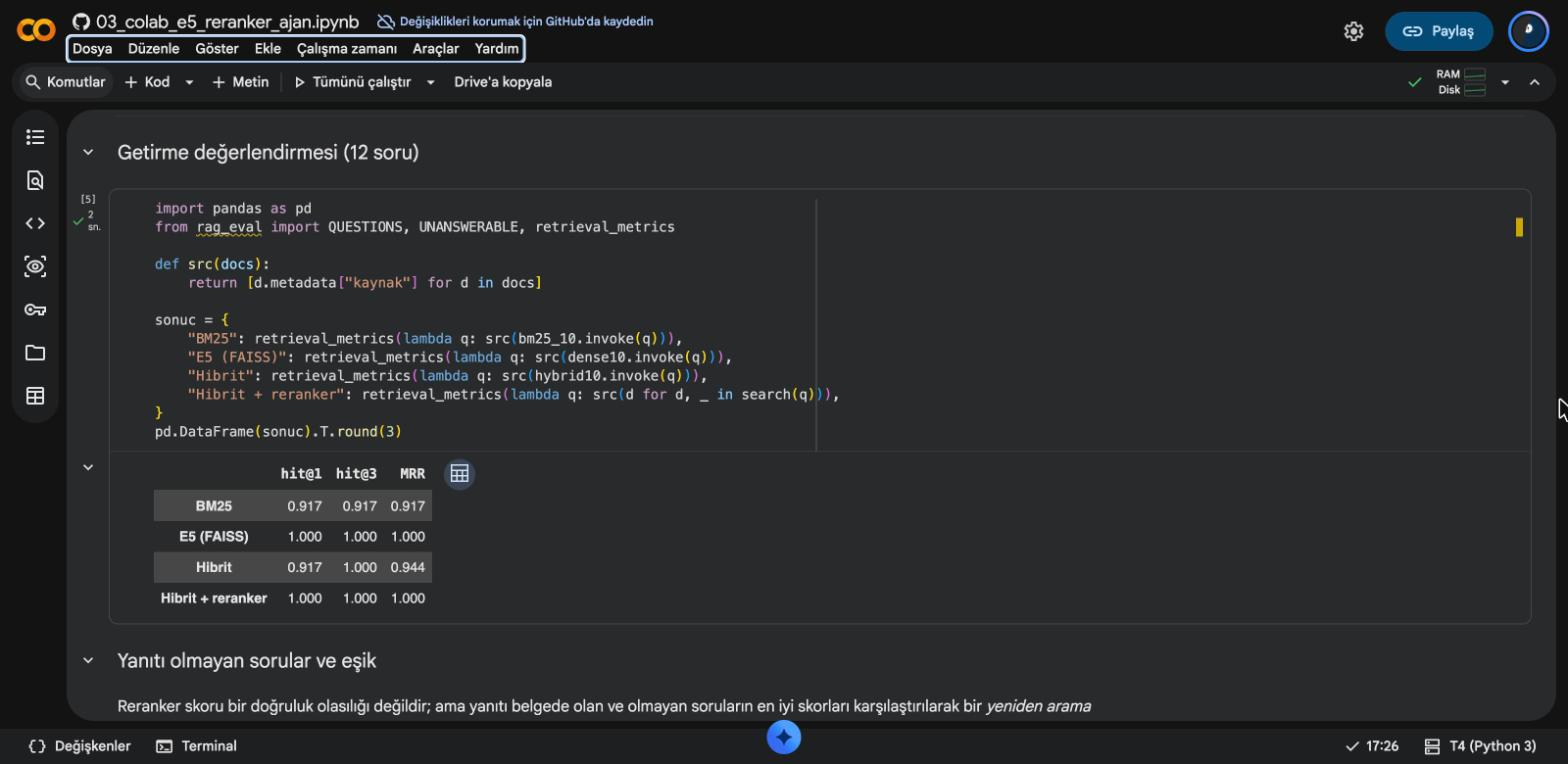
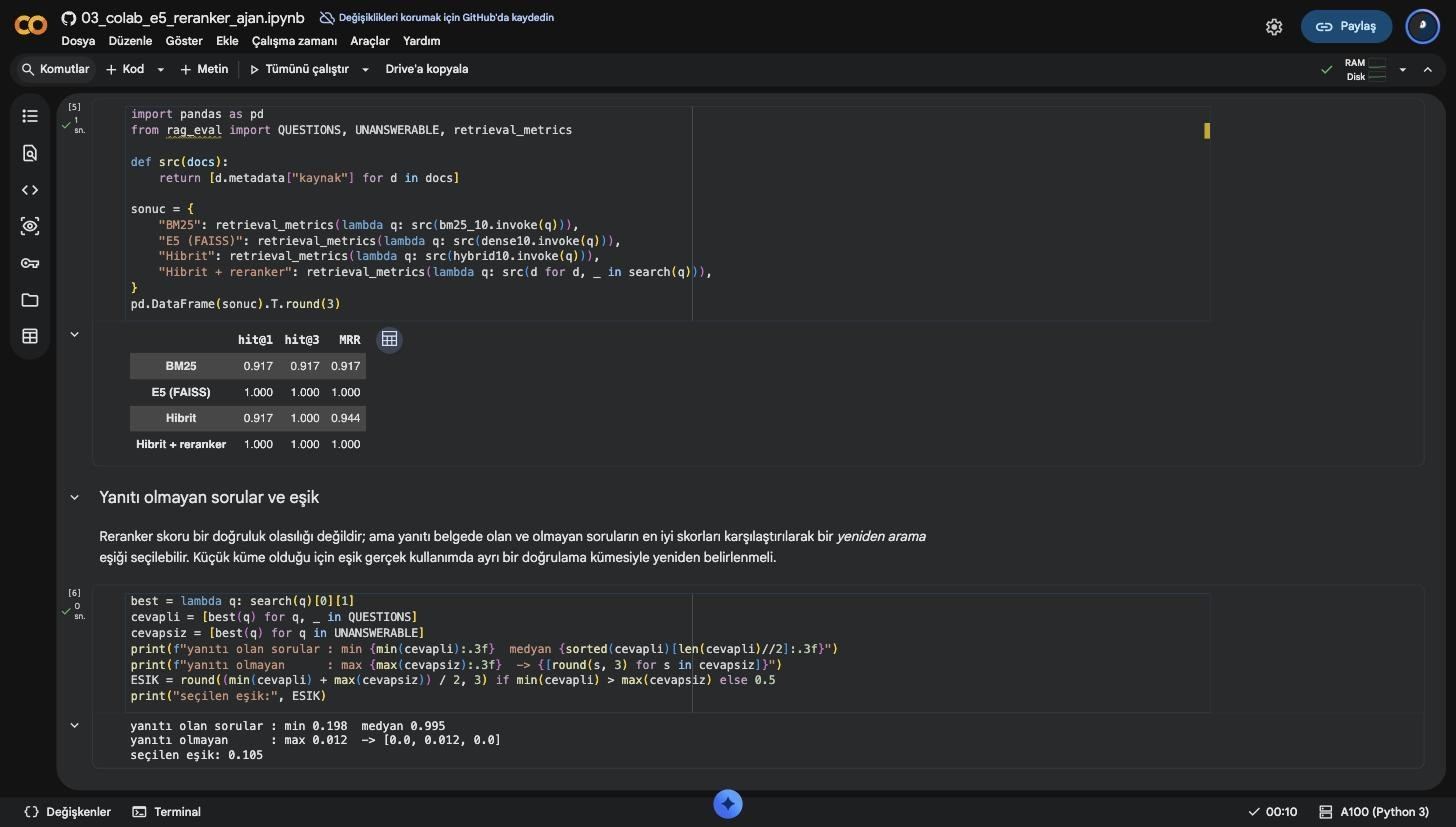
README: A100 sonuçları, Deep Agents çalıştırması ve CI rozeti
Claude-Session: https://claude.ai/code/session_01Kq5kEE8Kt9hC5jwmHe3cs3

diff --git a/README.md b/README.md
@@ -1,5 +1,6 @@
 # Türkçe Şirket İçi Belgeler için Agentic RAG
 
+[![CI](https://github.com/alimdemir/agentic-rag-turkish-docs/actions/workflows/ci.yml/badge.svg)](https://github.com/alimdemir/agentic-rag-turkish-docs/actions/workflows/ci.yml)
 [![Colab'da aç](https://colab.research.google.com/assets/colab-badge.svg)](https://colab.research.google.com/github/alimdemir/agentic-rag-turkish-docs/blob/main/notebooks/03_colab_e5_reranker_ajan.ipynb)
 ![LangChain](https://img.shields.io/badge/LangChain-1.x-1C3C3C)
 ![FAISS](https://img.shields.io/badge/FAISS-vector%20search-0467DF)
@@ -26,6 +27,7 @@ flowchart TD
 | `rag_utils.py` | Markdown başlığına + karakter sınırına göre iki aşamalı parçalama; parçanın başına `belge / bölüm` başlığı eklenir. `WordLlamaEmbeddings` (internetsiz) ve `E5Embeddings` (`query:` / `passage:` ön ekleriyle) |
 | `rag_eval.py` | 12 soruluk etiketli test kümesi, 3 yanıtsız soru, `hit@1`, `hit@3`, `MRR` |
 | `agentic.py` | Eşik ve yeniden yazma sınırı olan ajan döngüsü (model/getiriciden bağımsız, testlerde sahte fonksiyonlarla çalışır) |
+| `deep_rag.py` | LangChain Deep Agents ile aynı getirme hattını araç olarak kullanan ajan: `write_todos` ile planlama, `belge_ara` aracı, eşik altı skorda "bulunamadı" |
 
 ## Not defterleri
 
@@ -33,7 +35,8 @@ flowchart TD
 |---|---|---|
 | [`01_parcalama`](notebooks/01_parcalama.ipynb) | CPU | Parça boyutu denemeleri; 120 karakterde "90 gün" ile "2 yıl" kuralının ayrı parçalara düşmesi |
 | [`02_getirme_degerlendirme`](notebooks/02_getirme_degerlendirme.ipynb) | CPU, internetsiz | WordLlama + FAISS, BM25 ve hibrit getirme karşılaştırması |
-| [`03_colab_e5_reranker_ajan`](notebooks/03_colab_e5_reranker_ajan.ipynb) | Colab T4 | multilingual-e5-base + bge-reranker-v2-m3 + Qwen3-4B-Instruct ile ajan döngüsü, eşik seçimi |
+| [`03_colab_e5_reranker_ajan`](notebooks/03_colab_e5_reranker_ajan.ipynb) | Colab A100 | multilingual-e5-base + bge-reranker-v2-m3 + Qwen3-4B-Instruct ile ajan döngüsü, eşik seçimi |
+| [`04_colab_deep_agents`](notebooks/04_colab_deep_agents.ipynb) | Colab A100 | Deep Agents + Ollama (`qwen3:4b-instruct-2507`): çok konulu soruda plan, konu başına arama, kısmen yanıtsız soru |
 
 ### CPU sonuçları (not defteri 02)
 
@@ -45,7 +48,7 @@ flowchart TD
 
 Hibrit yöntem doğru belgeyi her soruda ilk üçe taşıyor ama ilk sıradaki isabet düşüyor. Bu yüzden ilk getirme geniş bir aday havuzu olarak kullanılıyor, sıralamayı reranker yapıyor.
 
-### Colab GPU sonuçları (not defteri 03)
+### Colab A100 sonuçları (not defteri 03)
 
 | Yöntem | hit@1 | hit@3 | MRR |
 |---|---|---|---|
@@ -56,15 +59,31 @@ Hibrit yöntem doğru belgeyi her soruda ilk üçe taşıyor ama ilk sıradaki i
 
 - Çok dilli E5 modeli, WordLlama'nın kaçırdığı soruyu da ilk sıraya taşıyor. Reranker ise hibrit getirmenin ilk sıradaki kaybını geri alıyor.
 - En iyi reranker skoru, yanıtı olan sorularda en az **0.198** (medyan 0.995), yanıtı olmayan sorularda en çok **0.012**. Yeniden arama eşiği **0.105** seçildi.
-- Ajan döngüsü: yanıtı olan sorular tek denemede kaynaklı yanıtlandı (5–7 sn, T4). "Yemek kartı limiti" sorusunda model sorguyu iki kez yeniden yazdı; skor 0'da kaldı ve sistem **"Belgelerde bu soruyu yanıtlayacak bilgi bulunamadı."** dedi.
+- Ajan döngüsü: yanıtı olan sorular tek denemede kaynaklı yanıtlandı (A100-SXM4-40GB'de 4.3–4.9 sn; aynı not defteri daha önce T4'te 5–7 sn sürmüştü). "Yemek kartı limiti" sorusunda model sorguyu iki kez yeniden yazdı; skor 0'da kaldı ve sistem **"Belgelerde bu soruyu yanıtlayacak bilgi bulunamadı."** dedi.
 - Karşılaşılan sorun: transformers 5'te `apply_chat_template(return_tensors="pt")` tensör yerine `BatchEncoding` döndürdüğü için `KeyError: 'shape'` alındı. Şablon önce metin olarak üretilip ayrıca tokenize edildi.
+
+### Deep Agents (not defteri 04, Colab A100)
+
+`deep_rag.py`, 03'teki hibrit getirme + reranker hattını `belge_ara` adlı tek bir araç olarak [Deep Agents](https://github.com/langchain-ai/deepagents) ajanına veriyor. Model Ollama üzerinden yerelde çalışan `qwen3:4b-instruct-2507`; belge içeriği dışarı çıkmıyor.
+
+| Soru | Plan (`write_todos`) | Aramalar (en iyi skor) | Sonuç | Süre |
+|---|---|---|---|---|
+| "Yeni başlayan bir stajyer ilk hafta neler yapıyor? Ayrıca uzaktan çalışırken aday verisini kendi bilgisayarıma indirebilir miyim?" | 2 adım | oryantasyon (0.932), uzaktan çalışma (0.938) | İki konu da belgelere dayanarak yanıtlandı | 67.5 sn* |
+| "Mülakat video kayıtları kaç gün saklanıyor ve şirketin yemek kartı limiti ne kadar?" | yok | KVKK (0.999), yemek kartı (0.001 → *bulunamadı*) | 90 gün yanıtlandı, yemek kartı için "bilgi bulunamadı" | 1.7 sn |
+
+\* İlk çağrı, modelin GPU belleğine yüklenmesini de içeriyor.
+
+Gözlemler:
+- Model iki konulu ilk soruda plan çıkardı ama ikinci soruda plan yapmadan iki aramayı doğrudan başlattı. `write_todos` bir araç olduğu için modelin kullanıp kullanmamasına bağlı; zorunlu bir adım değil.
+- Eşik araç içinde uygulandığı için model, belgelerde olmayan konu hakkında tahmin yürütmedi.
+- Sistem isteminde `[kaynak]` etiketi istenmesine rağmen yanıtlarda kaynak adı yer almadı; kaynaklar yalnızca araç izinde görünüyor. Bir sonraki adım, kaynağı yanıta modelden bağımsız olarak eklemek.
 
 ## Kurulum
 
 ```bash
 python -m venv .venv && source .venv/bin/activate
 pip install -r requirements-dev.txt        # CPU
-pytest -v                                  # 6 test
+pytest -v                                  # 8 test
 # GPU (Colab) için: pip install -r requirements-gpu.txt
 ```
 
@@ -81,8 +100,8 @@ pytest -v                                  # 6 test
 |---|---|
 | ![](docs/ekran_goruntuleri/01_parcalama.png)<br/>Başlık + karakter sınırıyla parçalama | ![](docs/ekran_goruntuleri/02_faiss_getirme.png)<br/>FAISS ile getirilen bölümler |
 | ![](docs/ekran_goruntuleri/03_bm25_embedding_hibrit.png)<br/>BM25 / embedding / hibrit karşılaştırması | |
-| ![](docs/ekran_goruntuleri/05_colab_e5_reranker_degerlendirme.jpg)<br/>Colab: E5 + reranker değerlendirmesi | ![](docs/ekran_goruntuleri/06_colab_ajan_dongusu.jpg)<br/>Colab: ajan döngüsü, yeniden yazma ve "bilgi bulunamadı" |
-| ![](docs/ekran_goruntuleri/04_colab_transformers5_hatasi.jpg)<br/>transformers 5 ile `KeyError: 'shape'` | |
+| ![](docs/ekran_goruntuleri/05_colab_e5_reranker_degerlendirme.jpg)<br/>Colab A100: E5 + reranker değerlendirmesi | ![](docs/ekran_goruntuleri/06_colab_ajan_dongusu.jpg)<br/>Colab A100: ajan döngüsü, yeniden yazma ve "bilgi bulunamadı" |
+| ![](docs/ekran_goruntuleri/07_colab_deep_agents.jpg)<br/>Colab A100: Deep Agents planı, araç çağrıları ve "bulunamadı" | ![](docs/ekran_goruntuleri/04_colab_transformers5_hatasi.jpg)<br/>transformers 5 ile `KeyError: 'shape'` |
 
 ## Lisans
 
